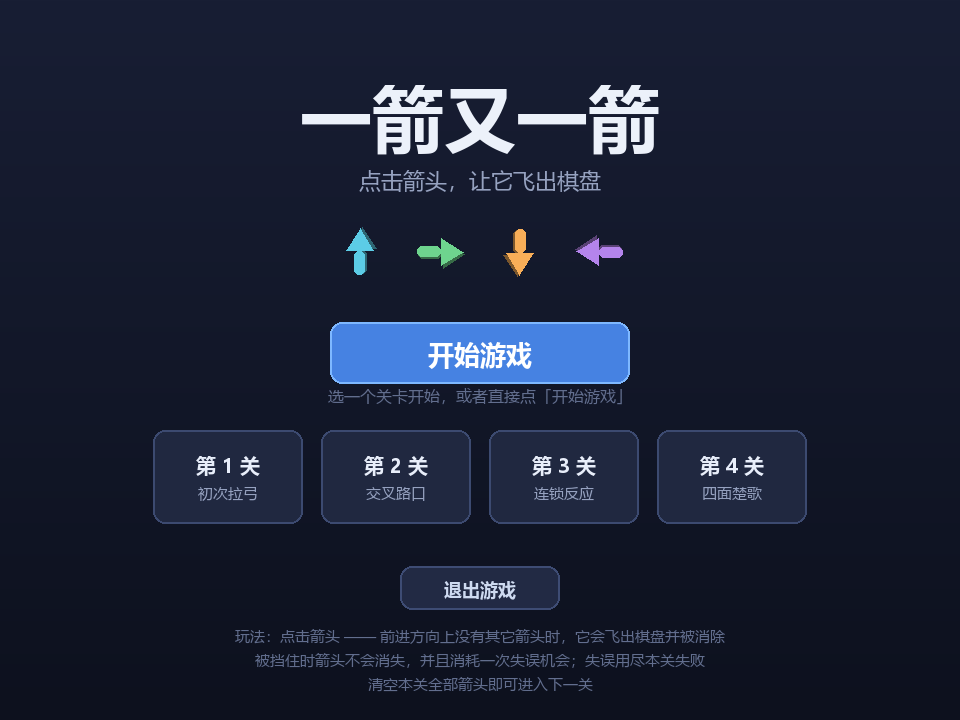
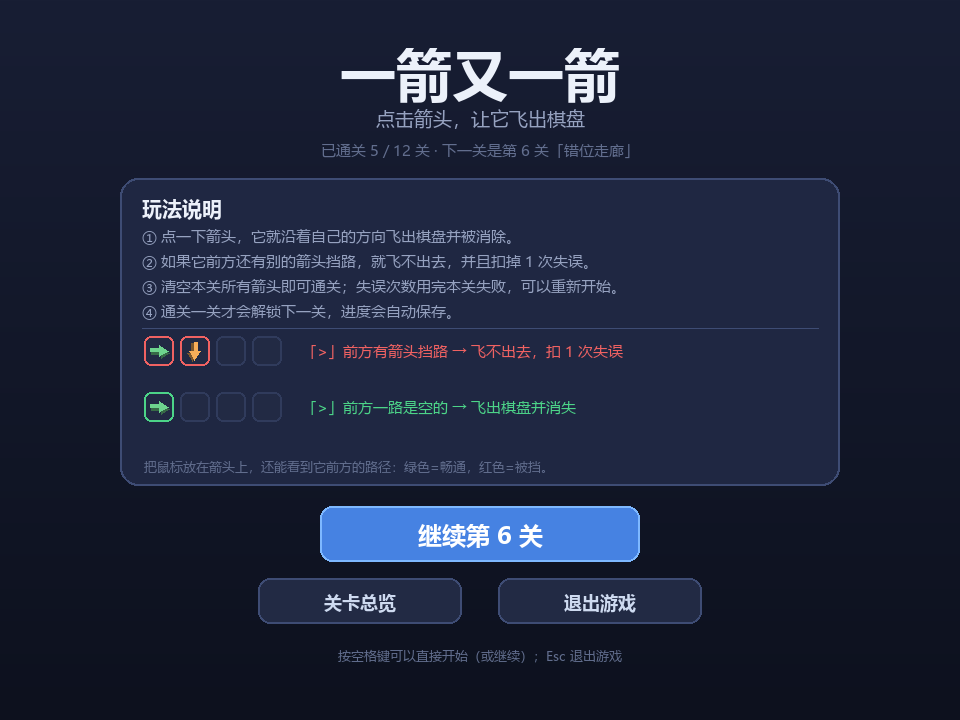
docs: 重写截图脚本并生成 11 张新截图
- 截图脚本改为用临时存档模拟一个「已经打到一半」的玩家，
  这样能一次拍到解锁/未解锁/教学关/全通关等不同状态
- 共 11 张：主菜单（含玩法说明卡片）、关卡总览、点未解锁关卡提示、
  教学关引导、棋盘悬停、撞击反馈、箭头飞出、通关面板、
  失败面板、全部通关、最后一关（10x10、30 支箭头）
- 移除旧版 7 张截图（shot-02-board-hover ~ shot-07-all-clear），
  文件名与新的场景顺序对齐

Changed region(s): [[0.125, 0.2444, 0.875, 0.9778], [0.3125, 0.0611, 0.6875, 0.275], [0.8438, 0.2444, 0.875, 0.275]]

diff --git a/tools/make_screenshots.py b/tools/make_screenshots.py
@@ -7,11 +7,14 @@
 用法：
     python tools/make_screenshots.py
 
-输出：assets/shot-*.png
+输出：assets/shot-01 ~ shot-10.png
+
+注意：脚本用**临时目录里的存档**，不会动你自己那份 progress.json。
 """
 
 import os
 import sys
+import tempfile
 
 # 必须在 import pygame 之前设置，才能进入无头模式
 os.environ.setdefault("SDL_VIDEODRIVER", "dummy")
@@ -24,9 +27,19 @@ import pygame  # noqa: E402
 
 from game import config  # noqa: E402
 from game.app import Game  # noqa: E402
+from game.levels import TOTAL_LEVELS  # noqa: E402
+from game.progress import Progress  # noqa: E402
 
 OUT_DIR = os.path.join(ROOT, "assets")
 FRAME = 1.0 / 60.0
+
+# 截图里演示用到的关卡下标
+TUTORIAL = 0            # 教学关
+CHAIN = 3               # 连锁反应
+HOVER = 4               # 四面楚歌（用来展示红色路径与碰撞）
+
+# 截图前预先通关的关卡：让关卡总览呈现出「已通关 / 可挑战 / 未解锁」三种状态
+PRECLEARED = (0, 1, 2, 3, 4)
 
 
 def settle(game, seconds):
@@ -38,6 +51,11 @@ def settle(game, seconds):
 def hover(game, row, col):
     """把鼠标"移动"到某个格子上，触发路径高亮。"""
     game.mouse_pos = game.cell_rect(row, col).center
+    game.update_hover()
+
+
+def unhover(game):
+    game.mouse_pos = (-1, -1)
     game.update_hover()
 
 
@@ -55,61 +73,109 @@ def play_solution(game):
         settle(game, 0.5)          # 等飞行动画播完（飞出 0.45 秒）
 
 
+def find_blocked(board):
+    """找一个此刻确实在棋盘上、且被挡住的箭头。"""
+    for arrow in board.arrows:
+        if board.arrow_at(arrow.row, arrow.col) is arrow and not board.can_fly(arrow.row, arrow.col):
+            return arrow
+    raise RuntimeError("没有找到被挡住的箭头")
+
+
 def main():
     pygame.init()
     screen = pygame.display.set_mode((config.WINDOW_WIDTH, config.WINDOW_HEIGHT))
     pygame.display.set_caption(config.WINDOW_TITLE)
-    game = Game(screen)
 
-    # -------- 1. 开始界面 --------
+    # 用临时存档，模拟一个「已经玩到一半」的玩家
+    save_path = os.path.join(tempfile.gettempdir(), "_arrow_screenshot_progress.json")
+    if os.path.exists(save_path):
+        os.remove(save_path)
+    progress = Progress(path=save_path, autoload=False)
+    for index in PRECLEARED:
+        progress.cleared.add(index)
+    game = Game(screen, progress=progress)
+
+    # -------- 1. 开始界面：标题 + 玩法说明 + 示例 --------
     game.draw()
     save(screen, "shot-01-menu.png")
 
-    # -------- 2. 游戏界面：悬停在被挡住的箭头上，路径显示为红色 --------
-    game.start_level(1)                     # 第 2 关「交叉路口」
-    hover(game, 1, 1)                       # (row=1, col=1) 的「>」被 (1,3) 的「v」挡住
+    # -------- 2. 关卡总览：已通关 / 可挑战 / 未解锁三种状态 --------
+    game.enter_levels()
     game.draw()
-    save(screen, "shot-02-board-hover.png")
+    save(screen, "shot-02-levels.png")
 
-    # -------- 3. 撞击反馈：点被挡住的箭头 --------
+    # -------- 3. 点未解锁的关卡会给出提示 --------
+    game.mouse_pos = game.card_rects[TOTAL_LEVELS - 1].center
+    game.update_hover()
+    game.handle_click(game.card_rects[TOTAL_LEVELS - 1].center)
+    game.draw()
+    save(screen, "shot-03-level-locked.png")
+
+    # -------- 4. 教学关：高亮环 + 底部逐步讲解 --------
+    game.start_level(TUTORIAL)
+    game.mouse_pos = (-1, -1)
+    game.update_hover()
+    settle(game, 0.2)
+    game.draw()
+    save(screen, "shot-04-tutorial.png")
+
+    # -------- 5. 游戏界面：悬停在被挡住的箭头上，路径显示为红色 --------
+    game.start_level(HOVER)                 # 四面楚歌
+    hover(game, 1, 1)                       # (1,1) 的「>」被 (1,5) 的「v」挡住
+    game.draw()
+    save(screen, "shot-05-board-hover.png")
+
+    # -------- 6. 撞击反馈：点被挡住的箭头（抓动画中间帧） --------
     game.click_cell(1, 1)
     settle(game, 0.14)
-    game.mouse_pos = (-1, -1)            # 把鼠标移开，避免路径高亮盖住撞击效果
-    game.update_hover()
+    unhover(game)                           # 移开鼠标，避免路径高亮盖住撞击效果
     game.draw()
-    save(screen, "shot-03-collision.png")
+    save(screen, "shot-06-collision.png")
 
-    # -------- 4. 通关这件事：打完这一关 --------
-    play_solution(game)
-    settle(game, config.RESULT_DELAY + 0.2)
-    game.draw()
-    save(screen, "shot-04-win.png")
-
-    # -------- 5. 飞出动画：第 3 关开一枪，抓中间帧 --------
-    game.start_level(2)                     # 第 3 关「连锁反应」
+    # -------- 7. 飞出动画：第 4 关开一枪，抓中间帧 --------
+    game.start_level(CHAIN)                 # 连锁反应
     hover(game, 1, 5)
     game.click_cell(1, 5)
     settle(game, 0.18)
     game.draw()
-    save(screen, "shot-05-flyout.png")
+    save(screen, "shot-07-flyout.png")
 
-    # -------- 6. 失败界面：第 4 关只有 2 次失误 --------
-    game.start_level(3)
-    game.click_cell(5, 3)                   # 「<」被左边的「^」挡住
-    settle(game, 0.5)
-    game.click_cell(5, 3)
-    settle(game, config.RESULT_DELAY + 0.3)
-    game.draw()
-    save(screen, "shot-06-fail.png")
-
-    # -------- 7. 全部通关界面 --------
-    game.start_level(3)
+    # -------- 8. 通关界面 --------
+    game.start_level(HOVER)
     play_solution(game)
     settle(game, config.RESULT_DELAY + 0.2)
     game.draw()
-    save(screen, "shot-07-all-clear.png")
+    save(screen, "shot-08-win.png")
+
+    # -------- 9. 失败界面：把失误次数故意用完 --------
+    game.start_level(HOVER)
+    target = find_blocked(game.board)
+    for _ in range(game.board.max_mistakes):
+        game.click_cell(target.row, target.col)
+        settle(game, 0.5)
+    settle(game, config.RESULT_DELAY + 0.3)
+    game.draw()
+    save(screen, "shot-09-fail.png")
+
+    # -------- 10. 全部通关界面 --------
+    progress.mark_all_cleared(TOTAL_LEVELS)
+    game.enter_levels()
+    game.start_level(TOTAL_LEVELS - 1)
+    play_solution(game)
+    settle(game, config.RESULT_DELAY + 0.2)
+    game.draw()
+    save(screen, "shot-10-all-clear.png")
+
+    # -------- 11. 最难的一关：10×10 棋盘 + 悬停显示被挡住的路径 --------
+    game.start_level(TOTAL_LEVELS - 1)
+    target = find_blocked(game.board)
+    hover(game, target.row, target.col)
+    game.draw()
+    save(screen, "shot-11-final-level.png")
 
     pygame.quit()
+    if os.path.exists(save_path):
+        os.remove(save_path)
     print("\n全部截图已生成到 assets/ 目录。")
     return 0
 
